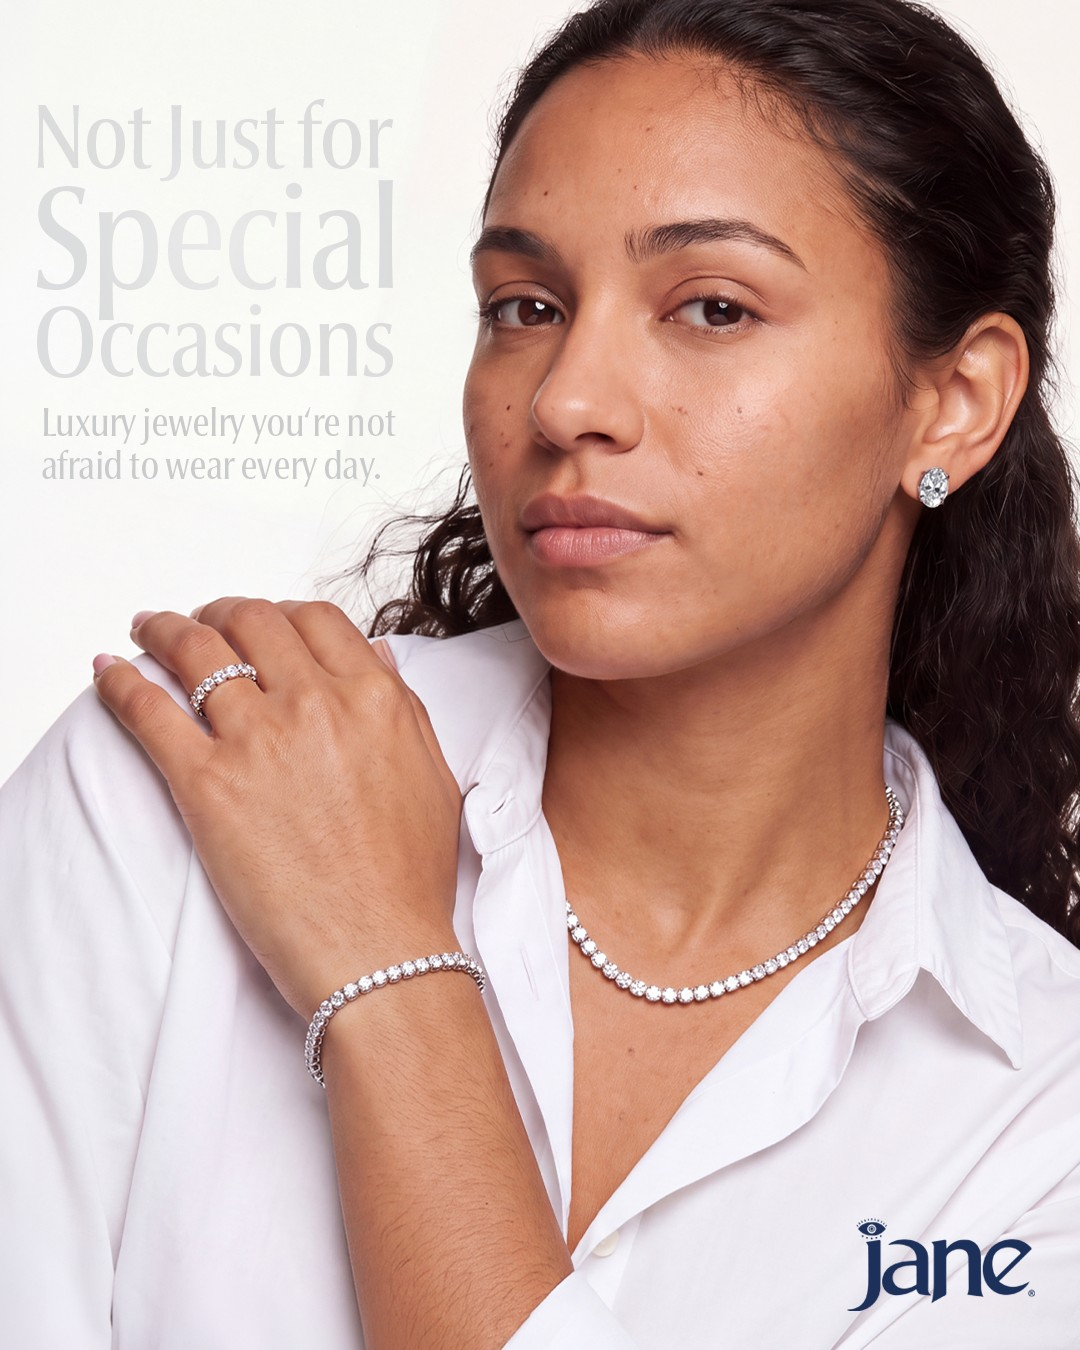
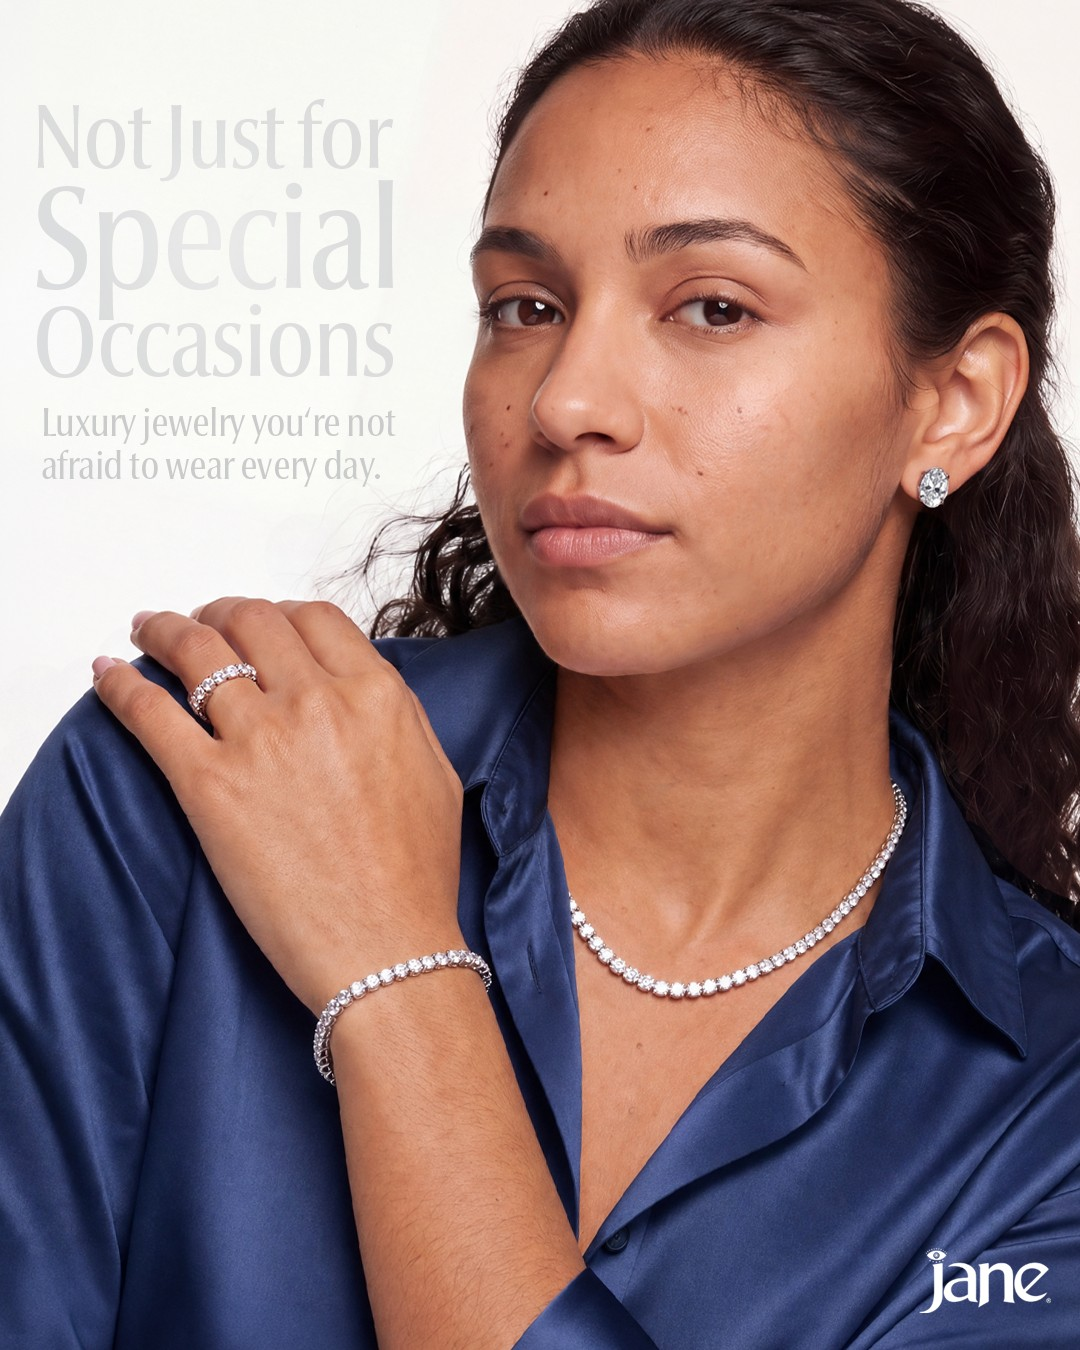
Add files via upload

diff --git a/jane-jewels-fall-creative.html b/jane-jewels-fall-creative.html
@@ -258,7 +258,7 @@
           <span class="idea-tag">Static 02</span>
           <p class="static-headline">"This is Tuesday"</p>
           <p class="static-sub">Investment pieces you can actually wear every day.</p>
-          <span class="static-cta">Get Yours Now</span>
+          <span class="static-cta">Find Yours Today</span>
         </div>
       </div>
 
@@ -270,7 +270,7 @@
           <span class="idea-tag">Static 03</span>
           <p class="static-headline">Not Just for Special Occasions</p>
           <p class="static-sub">Luxury jewelry you're not afraid to wear every day.</p>
-          <span class="static-cta">Get Yours Now</span>
+          <span class="static-cta">Shop Now</span>
         </div>
       </div>
 
@@ -282,7 +282,7 @@
           <span class="idea-tag">Static 04</span>
           <p class="static-headline">Jewelry That Shifts from Meetings to Meeting the Girls</p>
           <p class="static-sub">Jane Everyday Tennis Bracelet and Three-Prong Tennis Necklace, 10 carats each, starting at $348.</p>
-          <span class="static-cta">Only at Jane</span>
+          <span class="static-cta">Shop Now</span>
         </div>
       </div>
 
